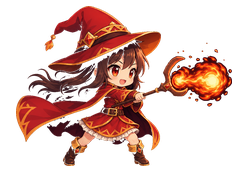
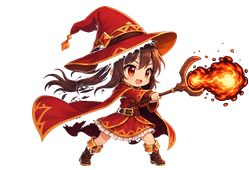
fix(client): flip follows movement dir (instant turn); head-anchored walk frames + faster framerate

diff --git a/client/src/render/GameScene.ts b/client/src/render/GameScene.ts
@@ -144,7 +144,7 @@ export class GameScene extends Phaser.Scene {
       this.anims.create({
         key: PYRO_WALK_ANIM,
         frames: this.anims.generateFrameNumbers('chibi-pyro-walk', { start: 0, end: 7 }),
-        frameRate: 11,
+        frameRate: 14,
         repeat: -1,
       });
     }
@@ -647,8 +647,11 @@ export class GameScene extends Phaser.Scene {
       return;
     }
 
-    // face the aim's horizontal side (art faces right by default).
-    sprite.setFlipX(Math.cos(pl.facing) < 0);
+    // Face the WALK direction while moving horizontally (instant A/D response);
+    // fall back to the aim direction when standing still / moving purely vertically.
+    const faceLeft =
+      moving && Math.abs(dx) > 0.5 ? dx < 0 : Math.cos(pl.facing) < 0;
+    sprite.setFlipX(faceLeft);
 
     // cast punch: a quick scale-up that decays over CAST_POSE_SECS
     const punch = casting ? 1 + 0.15 * ((st.castUntil - this.t) / CAST_POSE_SECS) : 1;